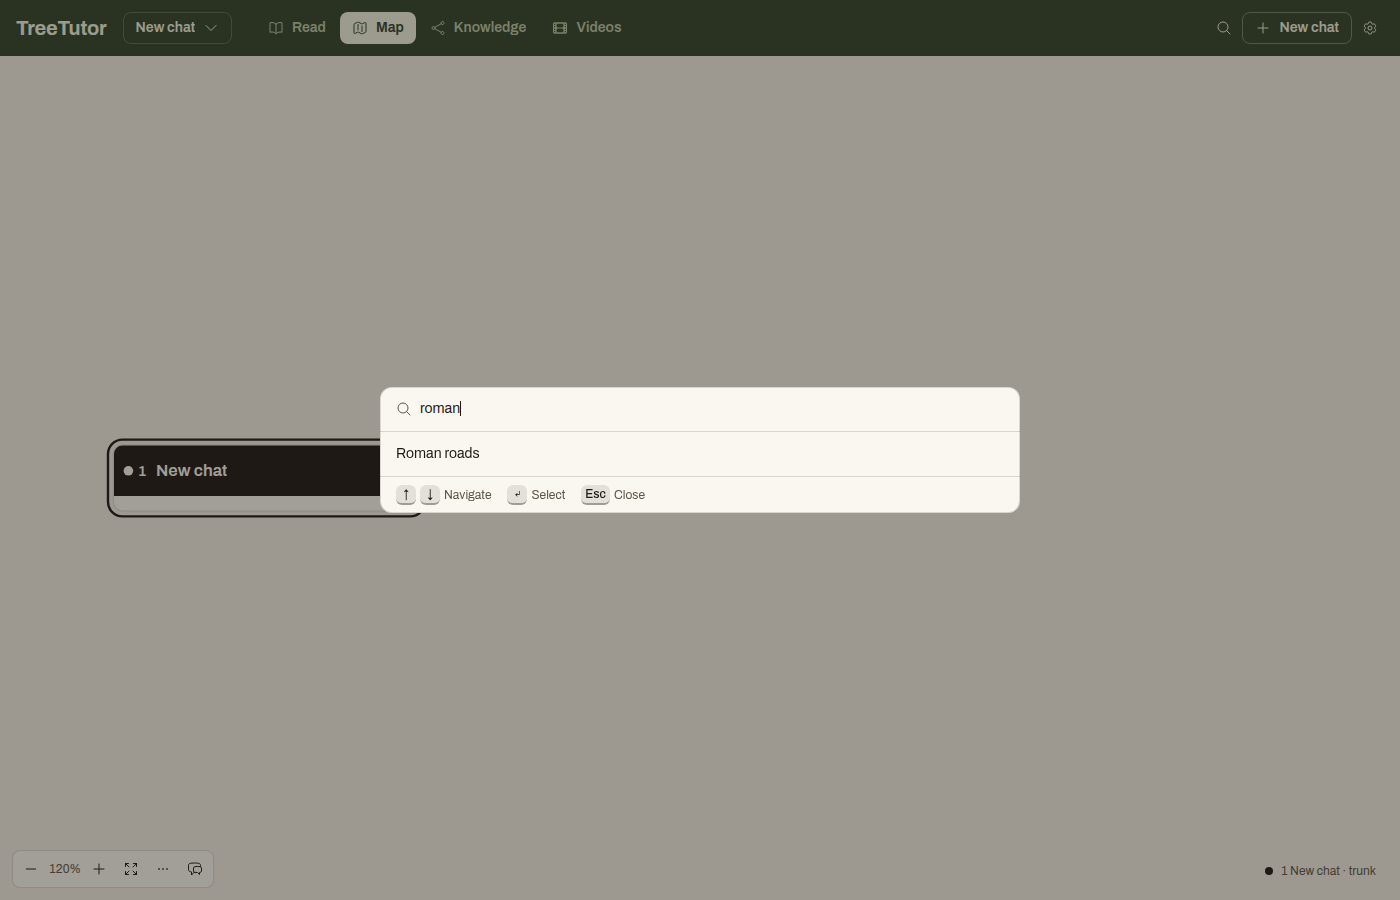
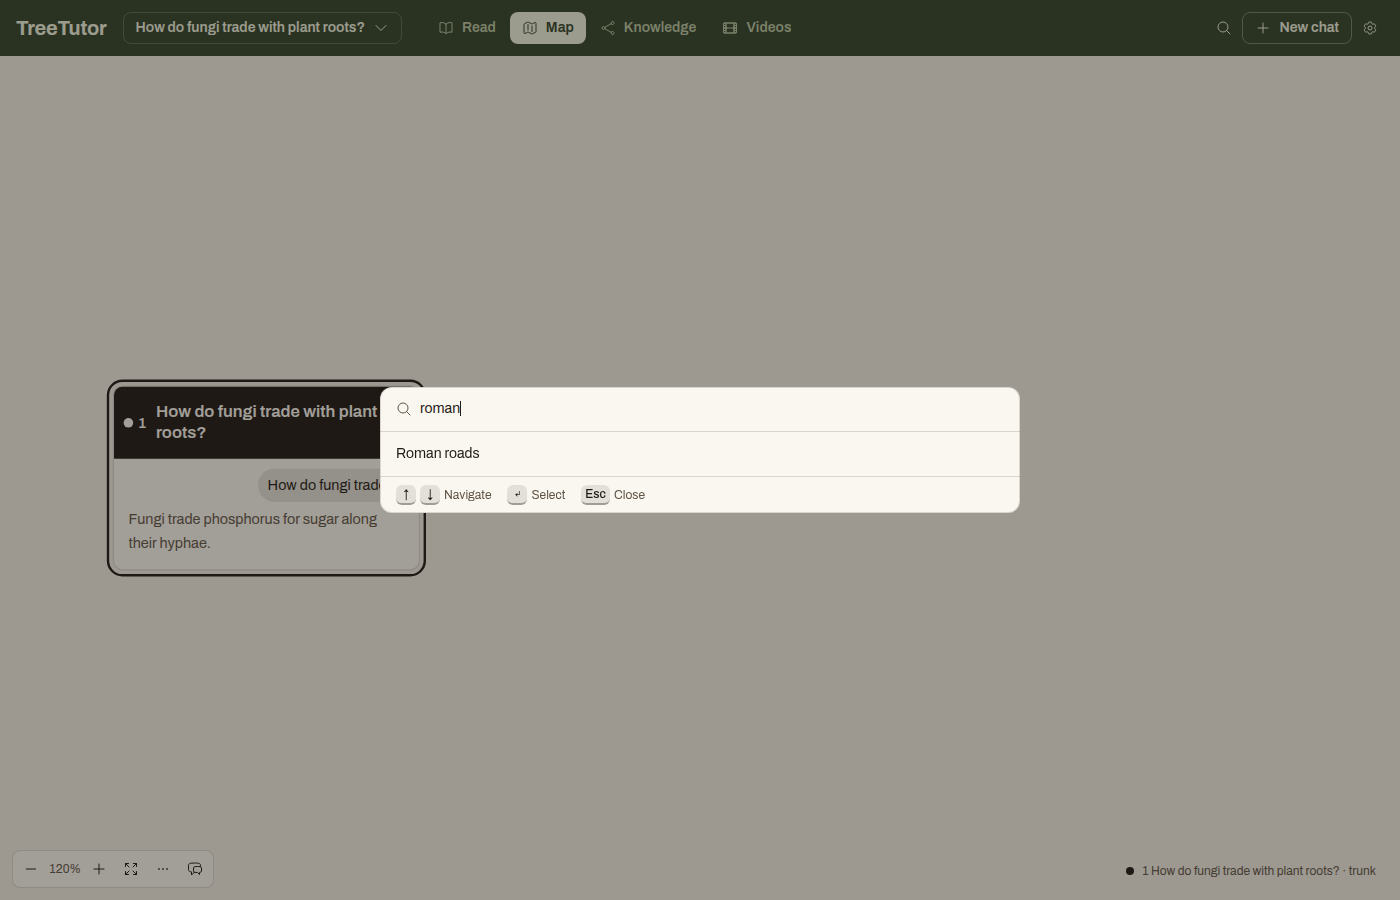
task: TreeTutor-got.9 Lazy New chat: save the learning tree on first send

diff --git a/src/ChatPage.tsx b/src/ChatPage.tsx
@@ -456,11 +456,11 @@ export default function ChatPage({ appearance, setAppearance, theme, setTheme }:
   }
   useEffect(() => { if (state) void loadModels(); }, [!!state, state?.auth.connected]);
   useEffect(() => {
-    if (!state || state.trees.length || tab === 'settings') return;
+    if (!state || tree || selected.current || tab === 'settings') return;
     let canceled = false;
     void api('/api/settings/chat').then(value => { if (!canceled) setFirstModel(value); }).catch(e => { if (!canceled) setError(e.message); });
     return () => { canceled = true; };
-  }, [!!state, state?.trees.length === 0, tab === 'settings']);
+  }, [!!state, !tree && !selected.current, tab === 'settings']);
   async function openModels(open: boolean) {
     if (!open) { setModelMenuOpen(false); return; }
     if (openingModels) return;
@@ -542,22 +542,34 @@ export default function ChatPage({ appearance, setAppearance, theme, setTheme }:
       }
     } catch (e) { setError((e as Error).message); }
   }
-  // The server reopens an existing unstarted chat rather than creating a second one.
-  async function create(question?: string) {
+  // New chat saves nothing: it shows the blank first-question composer; create() saves the tree on the first send.
+  function newChat() {
+    ++request.current; selected.current = undefined; setTree(undefined); setRoot(undefined); setTab('learning'); setOverview(false); setExpanded(false); setLoading(false); setError('');
+    requestAnimationFrame(() => document.querySelector<HTMLElement>('.first-question [role=textbox]')?.focus());
+  }
+  async function create(question: string) {
     if (busy) return;
     setBusy(true); setError('');
     try {
-      const next: Tree = await api('/api/trees', question && firstModel && currentModel ? { ...firstModel, model: currentModel.model } : {});
+      const next: Tree = await api('/api/trees', firstModel && currentModel ? { ...firstModel, model: currentModel.model } : {});
       await refresh();
       overviewOrigin.current = undefined; focusComposer.current = true;
       setRoot(next.id); setTab('learning'); setOverview(false); setExpanded(false);
       await select(next.id);
-      if (question?.trim()) {
-        setDrafts(d => ({ ...d, [next.id]: question }));
-        await send(question, next);
+      setDrafts(d => ({ ...d, first: '', [next.id]: question }));
+      await send(question, next);
+      // A first send the server never saved would leave an empty tree in the library: remove it and give the question back.
+      const saved: Tree = await api(`/api/trees/${next.id}`);
+      if (!saved.messages.length) {
+        await api(`/api/trees/${next.id}/delete`, { conversation: next.id, count: 1 });
+        await refresh();
+        // Keep send's error on screen; only drop the selection so the blank composer returns.
+        ++request.current; selected.current = undefined; setTree(undefined); setRoot(undefined);
+        setDrafts(d => ({ ...d, first: question }));
+        return;
       }
       requestAnimationFrame(() => { if (selected.current === next.id) composer.current?.focus(); });
-    } catch (e) { setError((e as Error).message); if (question) setDrafts(d => ({ ...d, first: d.first || question })); }
+    } catch (e) { setError((e as Error).message); setDrafts(d => ({ ...d, first: d.first || question })); }
     finally { setBusy(false); }
   }
   async function signIn() {
@@ -814,7 +826,7 @@ export default function ChatPage({ appearance, setAppearance, theme, setTheme }:
     <Text className="band-mark" weight="bold">TreeTutor</Text>
     <HStack gap={1} vAlign="center" className="band-tools">
       <IconButton className="tree-search" label="Search learning trees" tooltip="Search learning trees" icon={<MagnifyingGlassIcon />} variant="ghost" size="sm" aria-haspopup="dialog" onClick={() => setSearching(true)} />
-      <IconButton className="new-chat" label={busy ? 'Opening…' : 'New chat'} tooltip="New chat" icon={<PlusIcon />} variant="ghost" size="sm" isDisabled={busy} onClick={() => void create()} />
+      <IconButton className="new-chat" label={busy ? 'Opening…' : 'New chat'} tooltip="New chat" icon={<PlusIcon />} variant="ghost" size="sm" isDisabled={busy} onClick={newChat} />
     </HStack>
     {saveAlert}
   </header> : <header className="shell-band">
@@ -824,7 +836,7 @@ export default function ChatPage({ appearance, setAppearance, theme, setTheme }:
     <HStack gap={1} vAlign="center" className="band-tools">
       {saveAlert}
       <IconButton className="tree-search" label="Search learning trees" tooltip="Search learning trees" icon={<MagnifyingGlassIcon />} variant="ghost" size="sm" aria-haspopup="dialog" onClick={() => setSearching(true)} />
-      <Button className="new-chat" label={busy ? 'Opening…' : 'New chat'} variant="ghost" size="sm" icon={<PlusIcon />} isDisabled={busy} onClick={() => void create()} />
+      <Button className="new-chat" label={busy ? 'Opening…' : 'New chat'} variant="ghost" size="sm" icon={<PlusIcon />} isDisabled={busy} onClick={newChat} />
       <IconButton className="band-settings" label="Settings" tooltip="Settings" icon={<Cog6ToothIcon />} variant="ghost" size="sm" aria-current={tab === 'settings' ? 'page' : undefined} onClick={e => openSettings(undefined, undefined, e.currentTarget)} />
     </HStack>
   </header>;
@@ -943,7 +955,7 @@ export default function ChatPage({ appearance, setAppearance, theme, setTheme }:
         {tab === 'library' && <VStack gap={0} className="library-content">
           <HStack gap={4} vAlign="end" wrap="wrap" className="library-head">
             <VStack gap={2}><Heading level={1}>Library</Heading><Text color="secondary" className="library-intro">Every learning tree you have started. A tree keeps its root conversation and every branch.</Text></VStack>
-            <Button label={busy ? 'Opening…' : 'New chat'} variant="primary" icon={<PlusIcon />} isDisabled={busy} onClick={() => void create()} />
+            <Button label={busy ? 'Opening…' : 'New chat'} variant="primary" icon={<PlusIcon />} isDisabled={busy} onClick={newChat} />
           </HStack>
           {error && <Text className="failure-banner" role="alert">{error}</Text>}
           {state && !state.trees.length ? firstQuestion : state && <>
